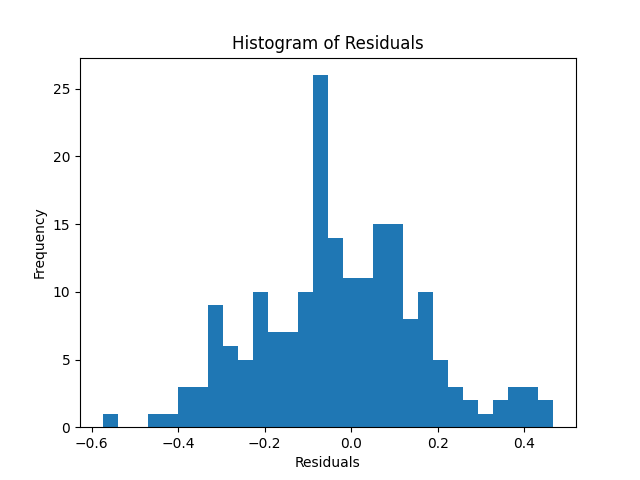
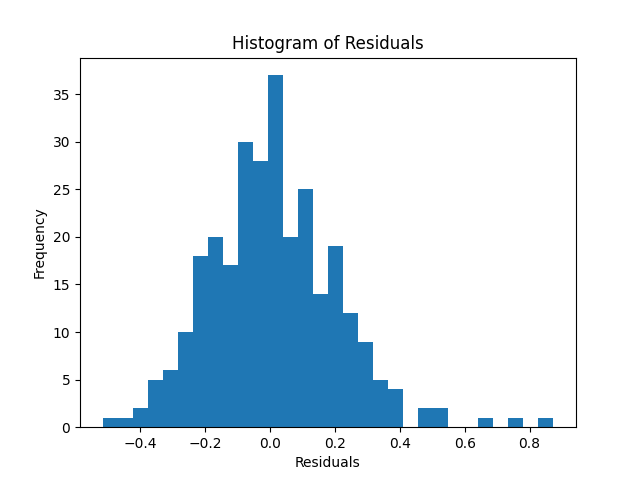
Modification of the sampling technique for logistic regression

diff --git a/Helpers.py b/Helpers.py
@@ -185,6 +185,50 @@ def plot_residual_distribution(
     plt.close()
 
 
+def print_linear_regression_model_stats(x_test, y_test, yh):
+    # print(calculate_variance_inflation_factor(preprocessed_data))
+    print(f"Mean Absolute Error: {np.mean(np.abs(y_test - yh))}")
+
+    mse = np.mean((y_test - yh) ** 2)
+    print(f"Mean Squared Error: {mse}")
+
+    r_squared = 1 - (
+        np.sum((y_test - yh) ** 2) / np.sum((y_test - np.mean(y_test)) ** 2)
+    )
+    print(f"R-squared: {r_squared}")
+
+    n = len(y_test)  # Number of observations
+    p = x_test.shape[1]  # Number of predictors
+    adjusted_r_squared = 1 - (1 - r_squared) * (n - 1) / (n - p - 1)
+    print(f"Adjusted R-squared: {adjusted_r_squared}")
+
+
+def print_logistic_regression_model_stats(x_test, y_test, yh):
+    # Accuracy
+    accuracy = np.mean(y_test == yh)
+
+    # Precision
+    true_positives = np.sum((yh == 1) & (y_test == 1))
+    predicted_positives = np.sum(yh == 1)
+    precision = true_positives / predicted_positives if predicted_positives > 0 else 0
+
+    # Recall
+    actual_positives = np.sum(y_test == 1)
+    recall = true_positives / actual_positives if actual_positives > 0 else 0
+
+    # F1 Score
+    if precision + recall > 0:
+        f1 = 2 * (precision * recall) / (precision + recall)
+    else:
+        f1 = 0
+
+    print(f"Model Statistics:")
+    print(f"Accuracy: {accuracy:.4f}")
+    print(f"Precision: {precision:.4f}")
+    print(f"Recall: {recall:.4f}")
+    print(f"F1 Score: {f1:.4f}")
+
+
 def plot_correlation_matrix(X, output_folder="Results", title="Correlation Matrix"):
     plt.figure(figsize=(20, 20))
     heatmap = sns.heatmap(X.corr(), vmin=-1, vmax=1, annot=True, cmap="Blues")
@@ -240,3 +284,43 @@ def plot_roc_curve(y_true, y_hat, output_folder="Results", title="ROC_Curve"):
     plot_path = os.path.join(output_folder, f"{title}.png")
     plt.savefig(plot_path)
     plt.close()
+
+
+def oversampling_dataset(df, target, test_percentage_dataset=0.2, random_state=None):
+    rng = np.random.RandomState(random_state)
+
+    positive = df[df[target] == 1]  # Extract all the true features in the dataset
+    negative = df[df[target] == 0]  # Extract all the false features in the dataset
+
+    train_percentage_dataset = 1 - test_percentage_dataset
+
+    # Split positive examples into train and test
+    positive_train = positive.sample(frac=train_percentage_dataset, random_state=rng)
+    positive_test = positive.drop(positive_train.index)
+
+    # Select an equal number of negative examples as positive_train for training
+    negative_train = negative.sample(n=len(positive_train), random_state=rng)
+    negative_test = negative.drop(negative_train.index).sample(
+        n=len(positive_test), random_state=rng
+    )
+
+    # Perform oversampling on the positive training set to match the size of the negative training set
+    oversampled_positive_train = positive_train.sample(
+        n=len(negative_train), replace=True, random_state=rng
+    )
+
+    # Combine the oversampled positive samples with the negative samples
+    x_train = pd.concat([oversampled_positive_train, negative_train]).sample(
+        frac=1, random_state=rng
+    )
+    x_test = pd.concat([positive_test, negative_test]).sample(frac=1, random_state=rng)
+
+    # Extract the target column
+    y_train = x_train[target]
+    y_test = x_test[target]
+
+    # Drop the target column from x_train and x_test to get only features
+    x_train = x_train.drop(columns=[target])
+    x_test = x_test.drop(columns=[target])
+
+    return x_train, x_test, y_train, y_test

diff --git a/InfraredThermographyTemperature/PrepareDataset.py b/InfraredThermographyTemperature/PrepareDataset.py
@@ -83,7 +83,9 @@ def fetch_Data():
 
 
 def perform_linear_regression(preprocessed_data):
-    x_train, x_test, y_train, y_test = split_data(preprocessed_data, "aveOralM")
+    x_train, x_test, y_train, y_test = split_data(
+        preprocessed_data, "aveOralM", test_size=0.3, random_state=42
+    )
     x_train_scaled, x_test_scaled = scale_data(x_train, x_test)
 
     lr = LinearRegression()
@@ -92,28 +94,15 @@ def perform_linear_regression(preprocessed_data):
 
     plot_actual_vs_predicted(y_test, yh, "aveOralM", "Results")
 
-    # print(calculate_variance_inflation_factor(preprocessed_data))
-    print(f"Mean Absolute Error: {np.mean(np.abs(y_test - yh))}")
-
-    mse = np.mean((y_test - yh) ** 2)
-    print(f"Mean Squared Error: {mse}")
-
-    r_squared = 1 - (
-        np.sum((y_test - yh) ** 2) / np.sum((y_test - np.mean(y_test)) ** 2)
-    )
-    print(f"R-squared: {r_squared}")
-
-    n = len(y_test)  # Number of observations
-    p = x_test.shape[1]  # Number of predictors
-    adjusted_r_squared = 1 - (1 - r_squared) * (n - 1) / (n - p - 1)
-    print(f"Adjusted R-squared: {adjusted_r_squared}")
-
+    print_linear_regression_model_stats(x_test, y_test, yh)
     plot_residual(y_test, yh, "Results")
     plot_residual_distribution(y_test, yh, "Results")
 
 
 def perform_MBS_linear_regression(preprocessed_data):
-    x_train, x_test, y_train, y_test = split_data(preprocessed_data, "aveOralM")
+    x_train, x_test, y_train, y_test = split_data(
+        preprocessed_data, "aveOralM", test_size=0.3, random_state=42
+    )
     x_train_scaled, x_test_scaled = scale_data(x_train, x_test)
 
     lr = MiniBatchStochasticLinearRegression(batch_size=32)
@@ -124,13 +113,61 @@ def perform_MBS_linear_regression(preprocessed_data):
         y_test, yh, "aveOralM", "Results", "miniBatchLinearRegression"
     )
 
+    print_linear_regression_model_stats(x_test, y_test, yh)
+
+    plot_residual(y_test, yh, "Results", "Mini_Batch_Linear_Regression_Residual.png")
+
+    plot_residual_distribution(
+        y_test, yh, "Results", "Mini_Batch_Linear_Regression_Residual_Distribution.png"
+    )
+
 
 def main():
     df = fetch_Data()
 
-    plot_correlation_matrix(df, "Results", "Infrared_Thermography_Correlation_Matrix")
+    plot_correlation_matrix(
+        df,
+        "Results",
+        "Infrared_Thermography_Correlation_Matrix_Before_Dropping_Values.png",
+    )
+    print("\nTest without dropping values:")
+    perform_linear_regression(df)
+
+    columns_to_drop = [
+        "T_RC_Dry1",
+        "T_RC_Wet1",
+        "T_RC_Max1",
+        "T_LC_Dry1",
+        "T_LC_Wet1",
+        "T_LC_Max1",
+        "canthi4Max1",
+        "T_FHRC1",
+        "T_FHLC1",
+        "T_FHBC1",
+        "T_FHTC1",
+        "T_OR1",
+        "T_Max1",
+        "T_FH_Max1",
+        "T_FHC_Max1",
+        "LCC1",
+        "canthiMax1",
+        "Max1R13_1",
+        "aveAllL13_1",
+        "T_RC1",
+        "T_LC1",
+        "RCC1",
+    ]
+    df.drop(columns_to_drop, axis=1, inplace=True)
+
+    plot_correlation_matrix(
+        df,
+        "Results",
+        "Infrared_Thermography_Correlation_Matrix_After_Dropping_Values.png",
+    )
 
     plot_variance_inflation_factor(df, "Diabetes_binary", "Results")
+
+    print("\nTest after dropping values:")
     perform_linear_regression(df)
 
     # perform_MBS_linear_regression(df)

diff --git a/DiabetesHealthIndicators/PrepareDataset.py b/DiabetesHealthIndicators/PrepareDataset.py
@@ -2,6 +2,14 @@ import pandas as pd
 import numpy as np
 from LogisticRegression import *
 from Assignment1.Helpers import *
+from sklearn.metrics import (
+    accuracy_score,
+    precision_score,
+    recall_score,
+    f1_score,
+    roc_auc_score,
+    confusion_matrix,
+)
 
 # Not much data to be pre-processed here.
 
@@ -15,14 +23,22 @@ def perform_logistic_regression(preprocessed_data):
     preprocessed_data = preprocessed_data.dropna()
     preprocessed_data = preprocessed_data.drop(columns=["ID"])
 
-    x_train, x_test, y_train, y_test = split_data(preprocessed_data, "Diabetes_binary")
+    x_train, x_test, y_train, y_test = oversampling_dataset(
+        preprocessed_data,
+        "Diabetes_binary",
+        test_percentage_dataset=0.2,
+    )
     x_train_scaled, x_test_scaled = scale_data(x_train, x_test)
-    lr = LogisticRegression(0.05, 1000, 1e-8, True)
+    lr = LogisticRegression(0.01, 1000, 1e-8, True)
     lr.fit(x_train_scaled, y_train)
     yh_bool, yh_real = lr.predict(x_test_scaled)
 
+    plot_residual(y_test, yh_bool, "Results")
+    plot_residual_distribution(y_test, yh_bool, "Results")
     # Plot confusion matrix
     plot_confusion_matrix(y_test, yh_bool)
+
+    print_logistic_regression_model_stats(x_test, y_test, yh_bool)
 
     # Plot ROC curve
     plot_roc_curve(y_test, yh_real)
